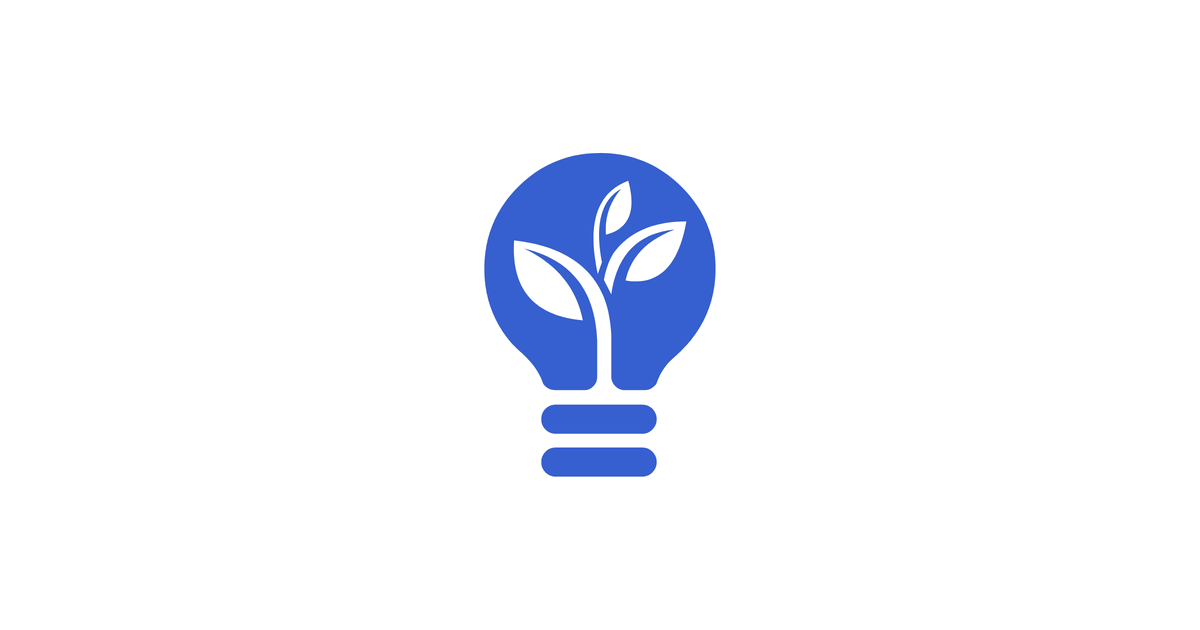
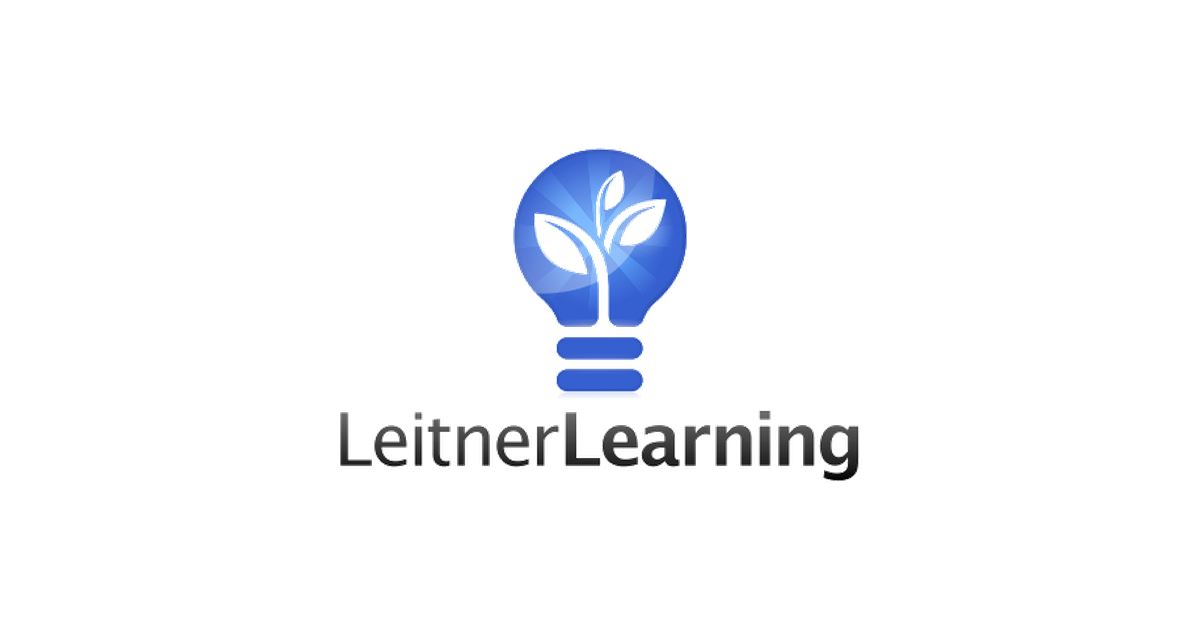
Ship Meta share card from Learning2 glossy lockup (Option B).
Build 1200×630 og-share from the designer Learning2 PNG with the footer strip cropped only — no redraw. Wire share title to the product line, leave share description empty so the brand name in the image is not restated in text, and keep browser title plus SEO description as brand + product. Cache-bust og-share to v=20.

Changed region(s): [[0.2775, 0.2111, 0.74, 0.7841]]

diff --git a/index.html b/index.html
@@ -22,40 +22,45 @@
     <link rel="canonical" href="https://leitnerlearning.com/" />
     <meta http-equiv="Cache-Control" content="no-cache" />
     <meta name="theme-color" content="#365fcf" />
-    <!-- Link previews: Messenger, WhatsApp, iMessage, Slack, LinkedIn, etc. -->
+    <!--
+      Link previews (Messenger, WhatsApp, iMessage, Slack, LinkedIn, etc.):
+      Image carries glossy Learning2 lockup (name in art). Title = product line.
+      Share description empty so brand/product isn’t restated under the card.
+      Browser <title> + meta description stay brand + product for tabs/Google.
+    -->
     <meta property="og:site_name" content="Leitner Learning" />
-    <meta property="og:title" content="Leitner Learning" />
     <meta
-      property="og:description"
+      property="og:title"
       content="Language learning. Review just before you forget. Stories with translations."
     />
+    <meta property="og:description" content="" />
     <meta property="og:type" content="website" />
     <meta property="og:url" content="https://leitnerlearning.com/" />
     <meta property="og:locale" content="en_US" />
     <meta
       property="og:image"
-      content="https://leitnerlearning.com/brand/og-share.png?v=19"
+      content="https://leitnerlearning.com/brand/og-share.png?v=20"
     />
     <meta
       property="og:image:secure_url"
-      content="https://leitnerlearning.com/brand/og-share.png?v=19"
+      content="https://leitnerlearning.com/brand/og-share.png?v=20"
     />
     <meta property="og:image:type" content="image/png" />
     <meta property="og:image:width" content="1200" />
     <meta property="og:image:height" content="630" />
     <meta
       property="og:image:alt"
-      content="Logo"
+      content="Leitner Learning"
     />
     <meta name="twitter:card" content="summary_large_image" />
-    <meta name="twitter:title" content="Leitner Learning" />
     <meta
-      name="twitter:description"
+      name="twitter:title"
       content="Language learning. Review just before you forget. Stories with translations."
     />
+    <meta name="twitter:description" content="" />
     <meta
       name="twitter:image"
-      content="https://leitnerlearning.com/brand/og-share.png?v=19"
+      content="https://leitnerlearning.com/brand/og-share.png?v=20"
     />
     <!-- Bookmarks, tabs, SERP favicon, home screen — PNGs regenerated sharp from mark -->
     <link rel="icon" href="brand/favicon.ico?v=19" sizes="any" />
